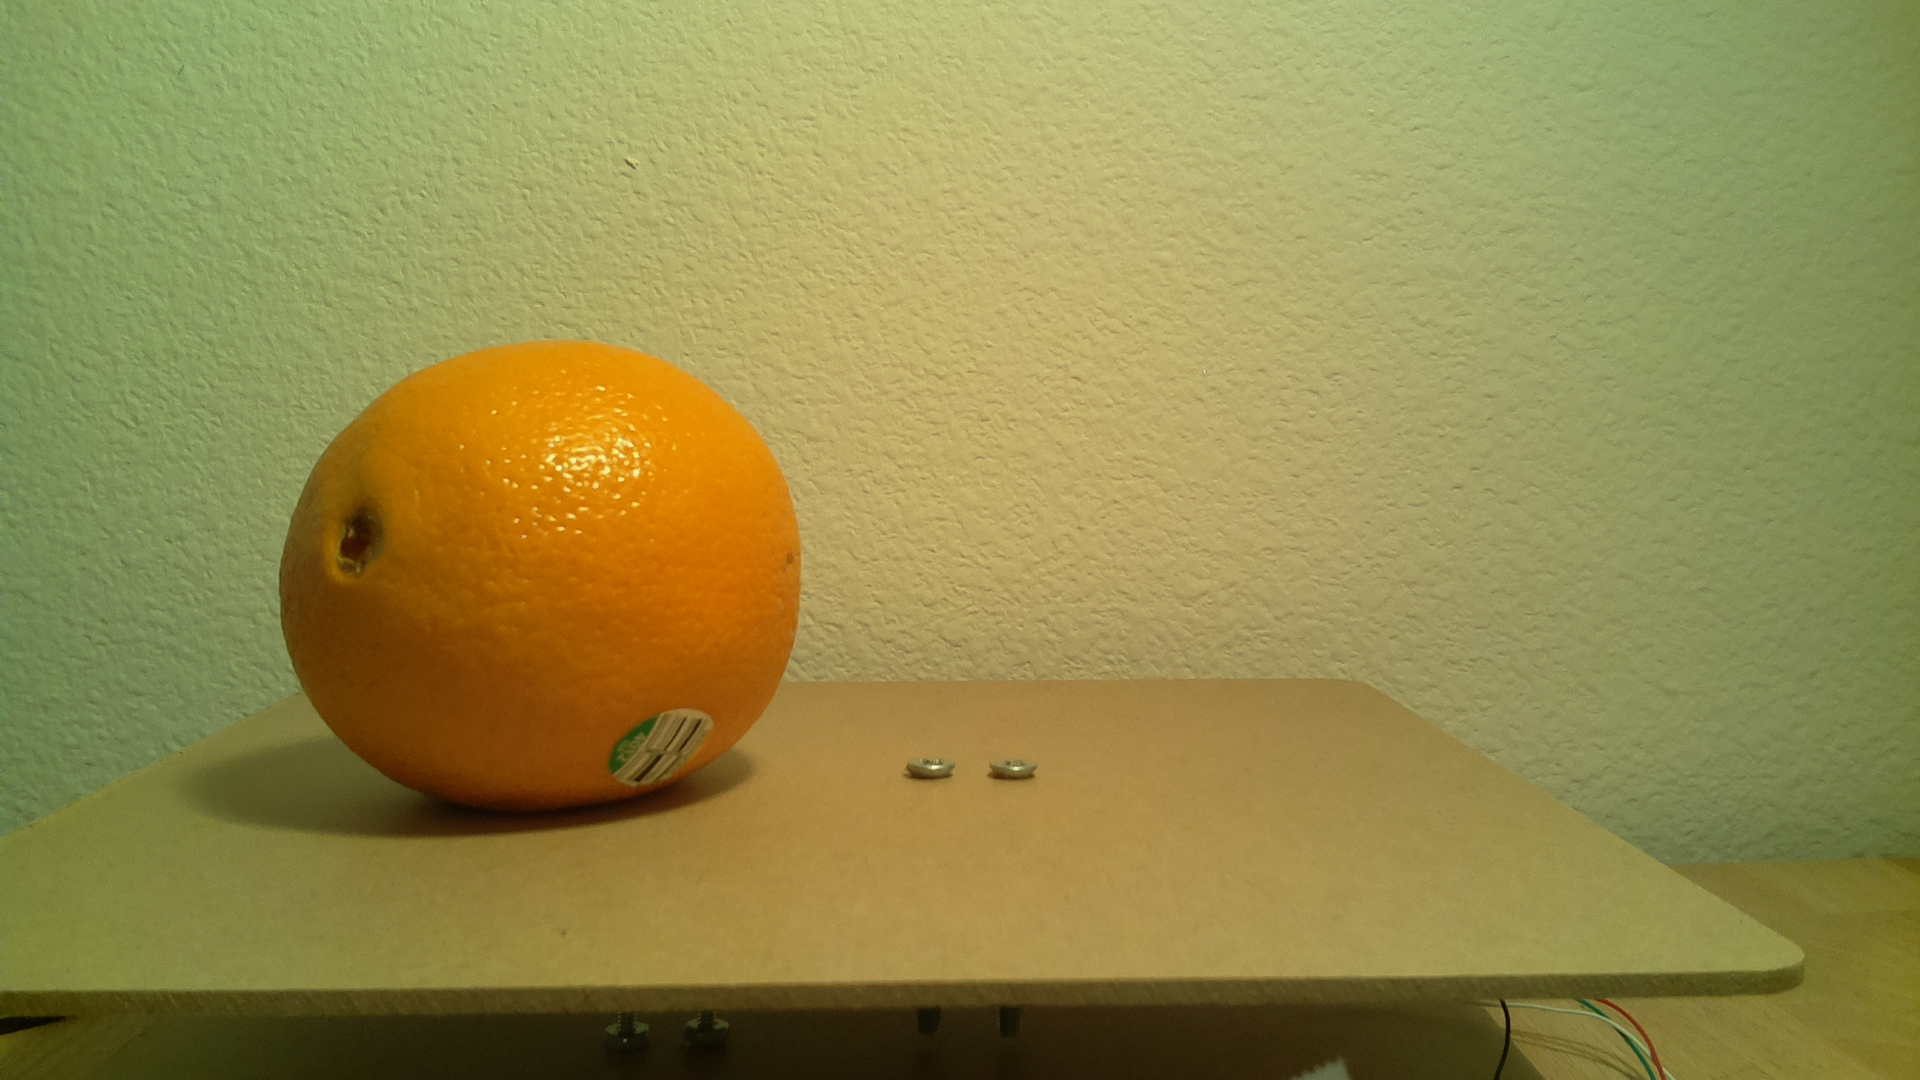
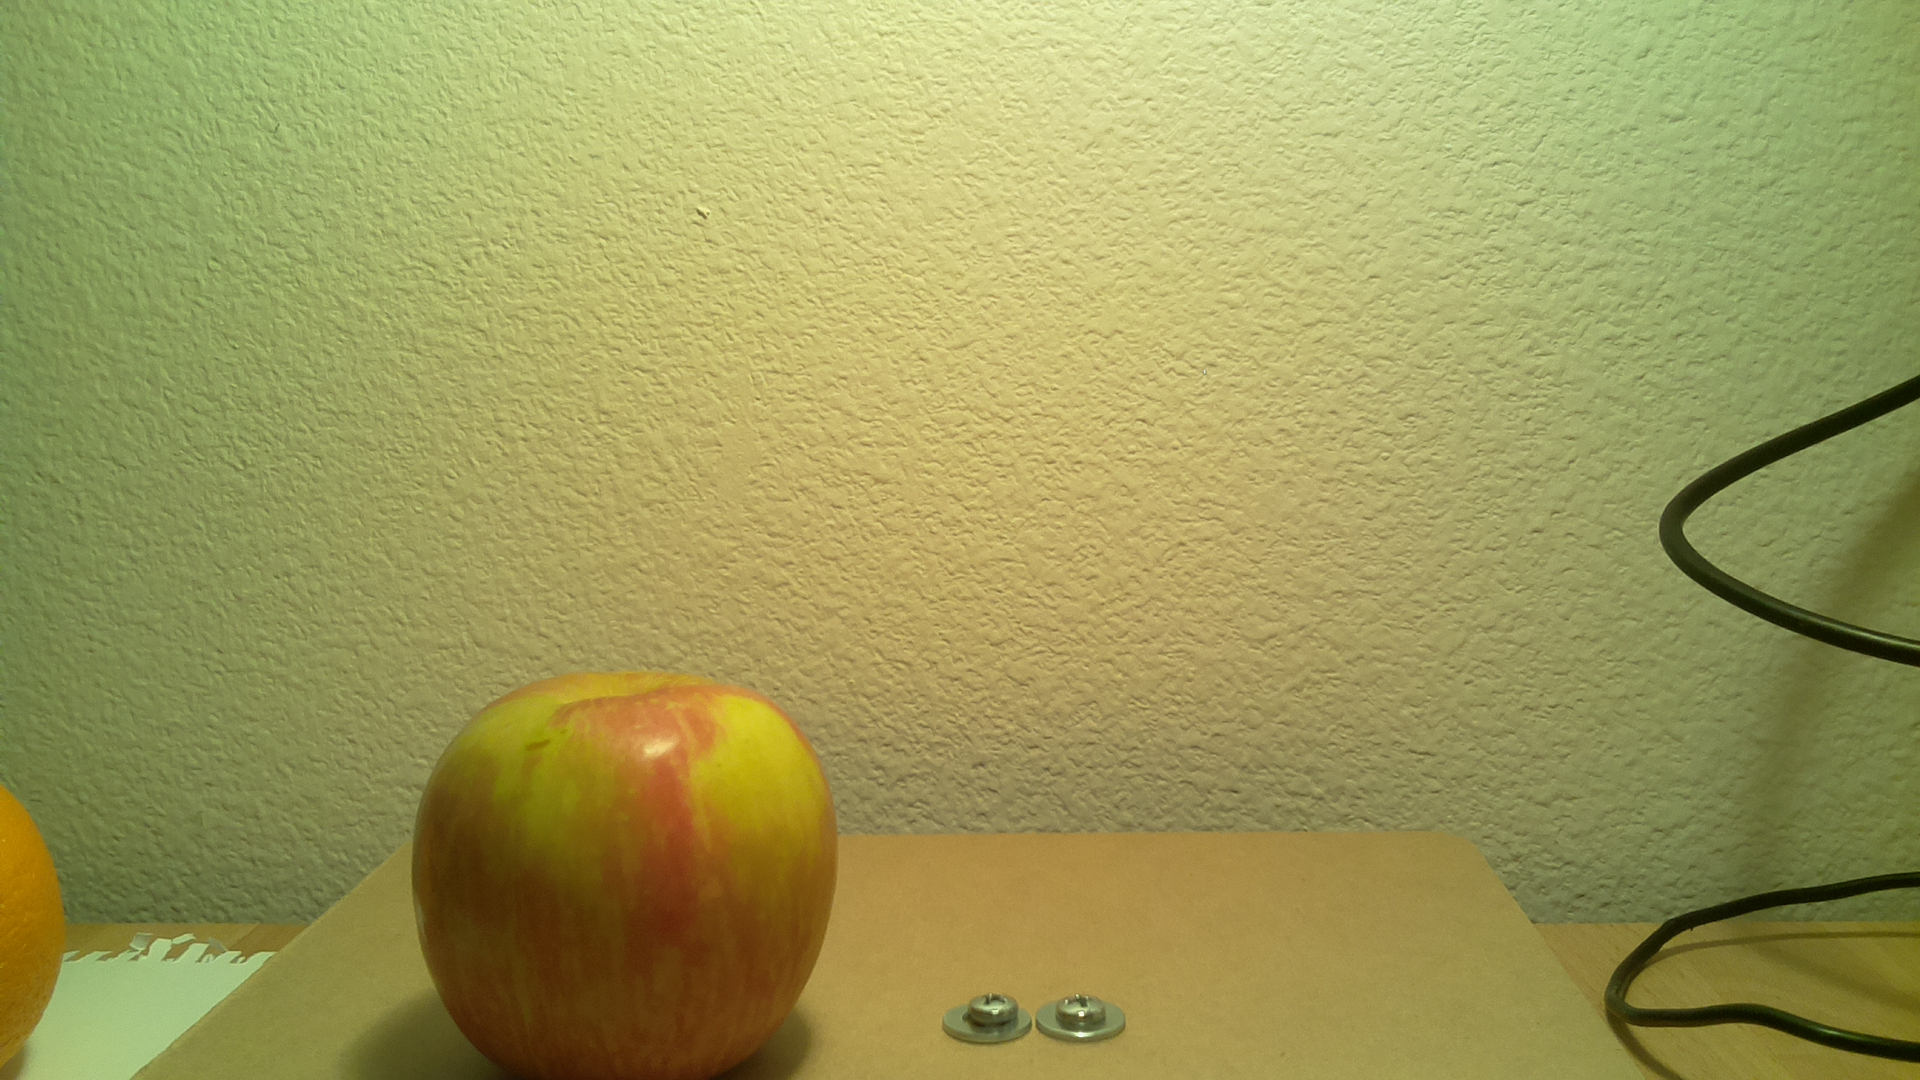
Add files via upload

diff --git a/run_alfrd.py b/run_alfrd.py
@@ -9,7 +9,8 @@ sys.path.append('/home/pi/Alfrd/yolo')
 import darknet_v2
 sys.path.append('/home/pi/Alfrd/mongodb')
 import mongodb_connection as db
-
+sys.path.append('/home/pi/Alfrd/led/python/examples')
+from led_function import *
 
 def cleanAndExit():
     print ("Cleaning...")
@@ -55,9 +56,12 @@ while True:
         
         # Prints the weight. Comment if you're debbuging the MSB and LSB issue.
         #kl-this is the original
-        #val = hx.get_weight(5)
-        print -hx.get_weight(5)
+        #this works....
+        val = hx.get_weight(5)
+        #print -hx.get_weight(5)
+        #val = max(0,int(-hx.get_weight(5)))
         val = max(0,int(-hx.get_weight(5)))
+        
         if prev<=50:
             t_prev=prev
         else:
@@ -66,25 +70,35 @@ while True:
         if count==-1:
             print "Initiating..."
             print "Scale Ready..."
+            colorWipe(strip, Color(200,200,200), wait_ms=50)
         
         if (val-prev<=t_prev*0.05 and val-prev>=t_prev*-0.05):
             count+=1
 
             if (count<3) and (prev!=0):
                 print "Measuring..."
+                dim(strip,wait_ms=5)
             #added (prev>0) to get the camera to not take a picture when its zero
             elif (count==3) and (prev>0):
                 print "Weight Aquired: "+str(val)+" g"
-                #camera.take_a_photo()
-                #darknet_v2.performDetect()
+                dim(strip,wait_ms=5)
                 
+                camera.take_a_photo()
+                dim(strip,wait_ms=5)
+                darknet_v2.performDetect()
+                showalllight(strip, Color(20,20,200), wait_ms=20, iterations=1)
+                time.sleep(5)
+                colorWipe(strip, Color(0,0,0), wait_ms=10)
         else:
             count=0
             prev=val
             print "Measuring..."
+            dim(strip,wait_ms=5)
 
         hx.reset()
         time.sleep(0.001)
         
     except (KeyboardInterrupt, SystemExit):
+        colorWipe(strip, Color(0,0,0), wait_ms=10)
         cleanAndExit()
+

diff --git a/run_afrd.py b/run_afrd.py
@@ -56,7 +56,8 @@ while True:
         # Prints the weight. Comment if you're debbuging the MSB and LSB issue.
         #kl-this is the original
         #val = hx.get_weight(5)
-        val = max(0,int(hx.get_weight(3)))
+        #print -hx.get_weight(5)
+        val = max(0,int(-hx.get_weight(5)))
         if prev<=50:
             t_prev=prev
         else:
@@ -87,3 +88,4 @@ while True:
         
     except (KeyboardInterrupt, SystemExit):
         cleanAndExit()
+
